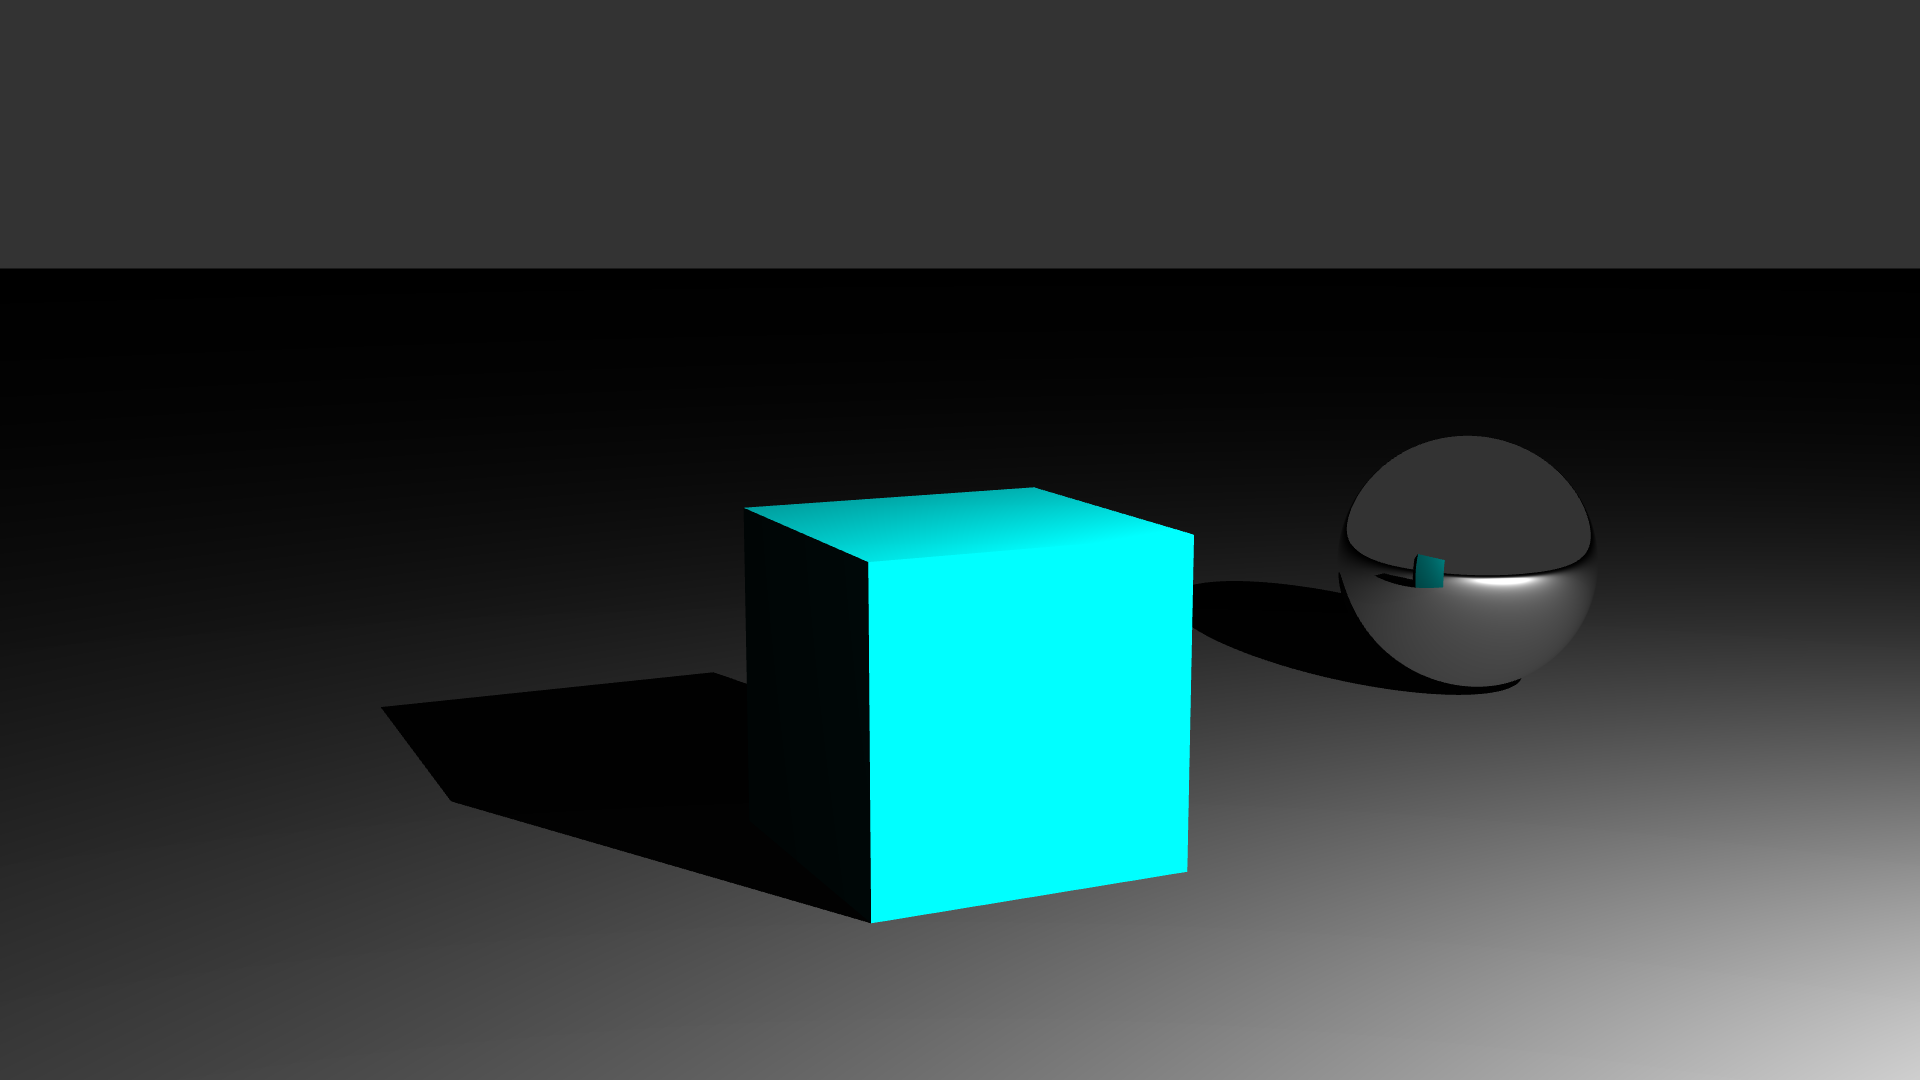
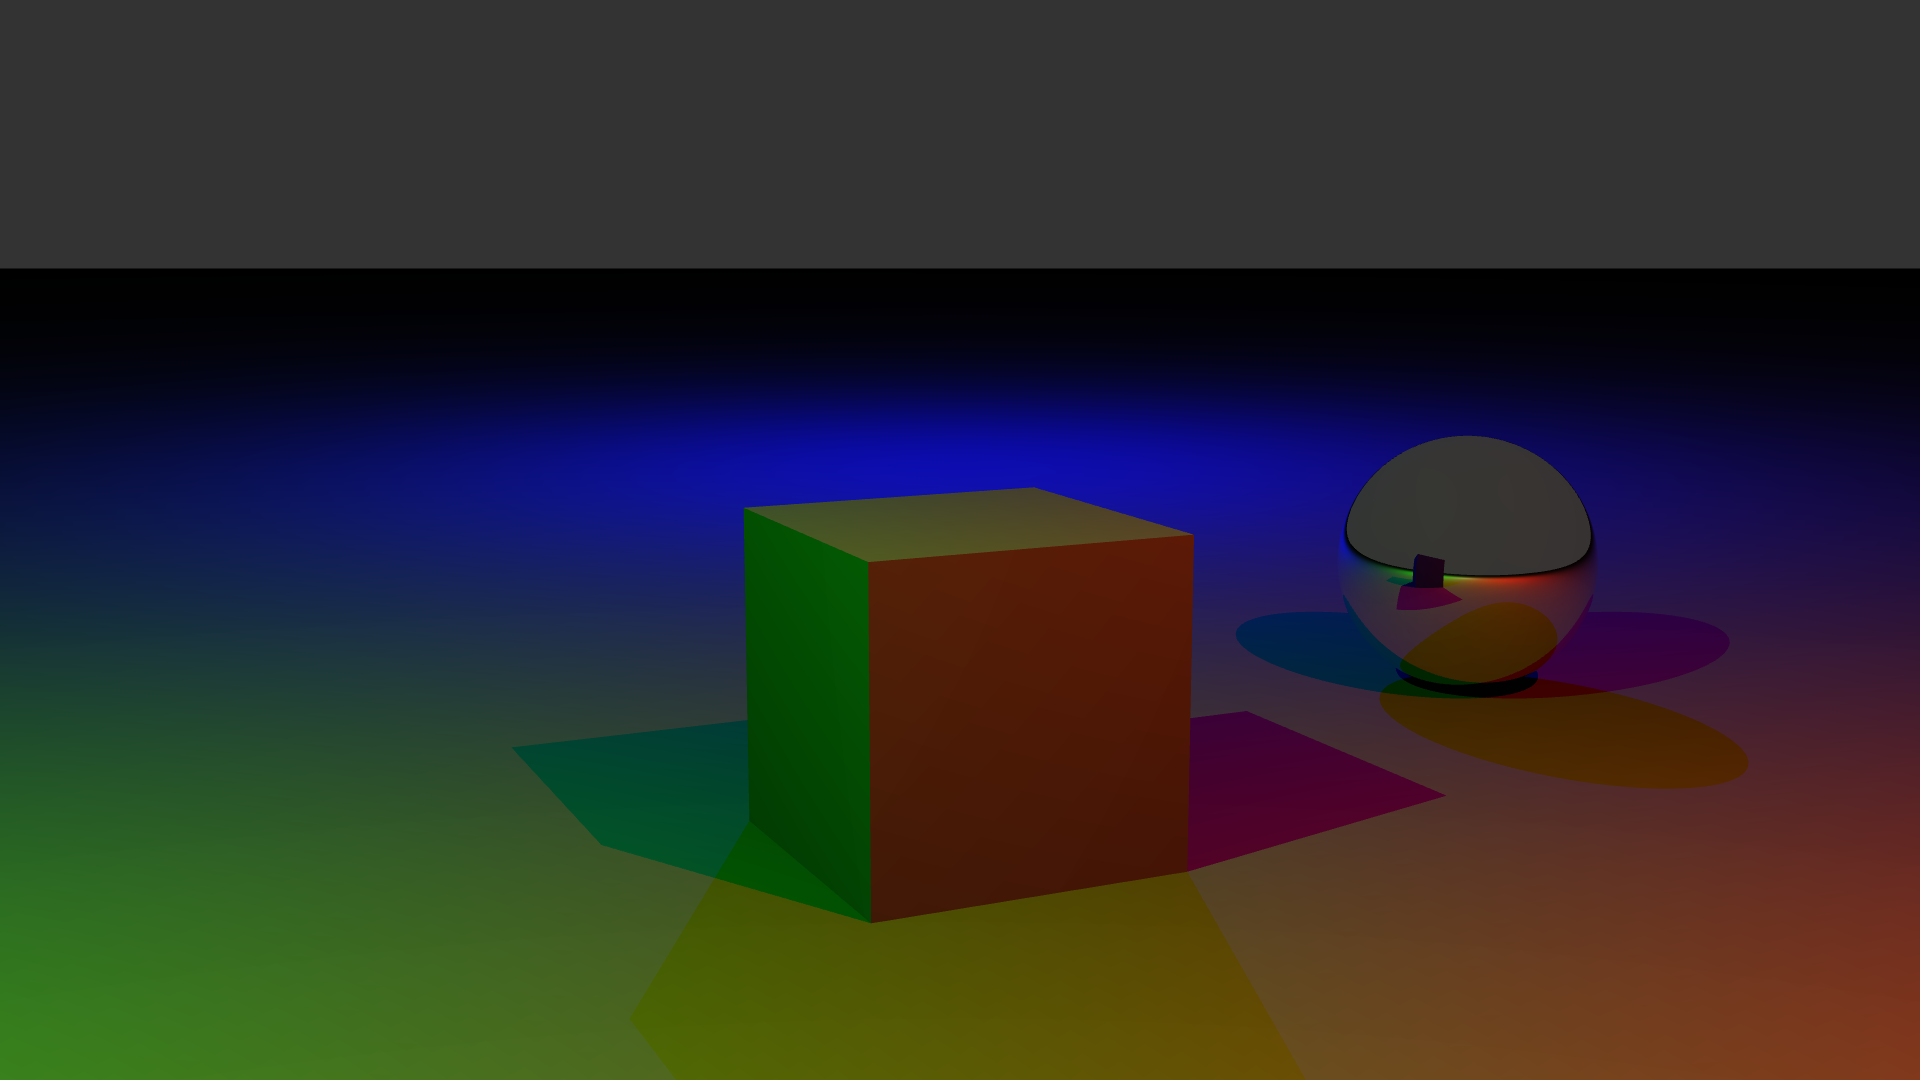
Rework of object colouring
Lights can now be coloured
Objects now only reflect light of the same color

diff --git a/src/tracer/Main.java b/src/tracer/Main.java
@@ -27,7 +27,9 @@ public class Main {
 				
 		Raytracer R = new Raytracer(CAMERA_ORIGIN, CAMERA_PITCH, CAMERA_YAW, CAMERA_ROLL, XRES, YRES, FOV, AA, THREADS, TILE_SIZE, BIAS);
 		
-		R.addLight(new tracer.light.PointLight(new Vector(2d,2d,2d), 1360d));
+		R.addLight(new tracer.light.PointLight(new Vector(2d,3d,2d), 1360d,Color.RED));
+		R.addLight(new tracer.light.PointLight(new Vector(-2d,3d,2d), 1360d,Color.GREEN));
+		R.addLight(new tracer.light.PointLight(new Vector(0d,3d,-4d), 1360d,Color.BLUE));
 		R.addLight(new tracer.light.PointLight(CAMERA_ORIGIN, 50d));
 		
 		AffineMatrix O = AffineMatrix.buildMatrix(0d, 0d, 0d, new Vector(0d,0d,0d));
@@ -38,16 +40,16 @@ public class Main {
 		Material CYAN = new Material(new DiffuseShader(Color.CYAN,0.5d,R));
 		Material RED = new Material(new DiffuseShader(Color.RED,0.5d,R));
 		
-		Material REFLECT = new Material(new ReflectionShader(Color.BLACK, 1d, R));
+		Material REFLECT = new Material(new ReflectionShader(Color.WHITE, 0.99d, R));
 				
 		R.addShape(new Face(WHITE, O, new Vector(20d,0d,20d), new Vector(20d,0d,-20d), new Vector(-20d,0d,-20d), new Vector(-20d,0d,20d)));
 		
-		R.addShape(new Face(CYAN, M, new Vector(0.25d,0.25d,0.25d), new Vector(-0.25d,0.25d,0.25d), new Vector(-0.25d,-0.25d,0.25d), new Vector(0.25d,-0.25d,0.25d)));
-		R.addShape(new Face(CYAN, M, new Vector(0.25d,0.25d,-0.25d), new Vector(0.25d,-0.25d,-0.25d), new Vector(-0.25d,-0.25d,-0.25d), new Vector(-0.25d,0.25d,-0.25d)));
-		R.addShape(new Face(CYAN, M, new Vector(0.25d,0.25d,0.25d), new Vector(0.25d,-0.25d,0.25d), new Vector(0.25d,-0.25d,-0.25d), new Vector(0.25d,0.25d,-0.25d)));
-		R.addShape(new Face(CYAN, M, new Vector(0.25d,0.25d,0.25d), new Vector(0.25d,0.25d,-0.25d), new Vector(-0.25d,0.25d,-0.25d), new Vector(-0.25d,0.25d,0.25d)));
-		R.addShape(new Face(CYAN, M, new Vector(-0.25d,0.25d,0.25d), new Vector(-0.25d,0.25d,-0.25d), new Vector(-0.25d,-0.25d,-0.25d), new Vector(-0.25d,-0.25d,0.25d)));
-		R.addShape(new Face(CYAN, M, new Vector(0.25d,-0.25d,0.25d), new Vector(-0.25d,-0.25d,0.25d), new Vector(-0.25d,-0.25d,-0.25d), new Vector(0.25d,-0.25d,-0.25d)));
+		R.addShape(new Face(WHITE, M, new Vector(0.25d,0.25d,0.25d), new Vector(-0.25d,0.25d,0.25d), new Vector(-0.25d,-0.25d,0.25d), new Vector(0.25d,-0.25d,0.25d)));
+		R.addShape(new Face(WHITE, M, new Vector(0.25d,0.25d,-0.25d), new Vector(0.25d,-0.25d,-0.25d), new Vector(-0.25d,-0.25d,-0.25d), new Vector(-0.25d,0.25d,-0.25d)));
+		R.addShape(new Face(WHITE, M, new Vector(0.25d,0.25d,0.25d), new Vector(0.25d,-0.25d,0.25d), new Vector(0.25d,-0.25d,-0.25d), new Vector(0.25d,0.25d,-0.25d)));
+		R.addShape(new Face(WHITE, M, new Vector(0.25d,0.25d,0.25d), new Vector(0.25d,0.25d,-0.25d), new Vector(-0.25d,0.25d,-0.25d), new Vector(-0.25d,0.25d,0.25d)));
+		R.addShape(new Face(WHITE, M, new Vector(-0.25d,0.25d,0.25d), new Vector(-0.25d,0.25d,-0.25d), new Vector(-0.25d,-0.25d,-0.25d), new Vector(-0.25d,-0.25d,0.25d)));
+		R.addShape(new Face(WHITE, M, new Vector(0.25d,-0.25d,0.25d), new Vector(-0.25d,-0.25d,0.25d), new Vector(-0.25d,-0.25d,-0.25d), new Vector(0.25d,-0.25d,-0.25d)));
 				
 		R.addShape(new Sphere(0.25, S, REFLECT));
 		

diff --git a/src/tracer/light/PointLight.java b/src/tracer/light/PointLight.java
@@ -1,17 +1,27 @@
 package tracer.light;
 
+import java.awt.Color;
+
 import patchi.math.space.Vector;
 
 public class PointLight extends Light {
-		
+
 	private Vector origin;
-	
+
 	public PointLight(Vector O, double intensity) {
-		
+
 		super(intensity);	
-		
+
 		this.origin = O;
-		
+
+	}
+
+	public PointLight(Vector O, double intensity, Color C) {
+
+		super(intensity,C);	
+
+		this.origin = O;
+
 	}
 
 	@Override
@@ -21,11 +31,11 @@ public class PointLight extends Light {
 
 	@Override
 	public double getIntensity(Vector P) {
-		
+
 		Vector V = new Vector(P,origin);
 		double rsquare = V.dot(V);
 		return super.intensity / (4d * Math.PI * rsquare);
-		
+
 	}
 
 	@Override
@@ -33,5 +43,5 @@ public class PointLight extends Light {
 		Vector V = new Vector(P, origin);
 		return V.dot(V);
 	}
-	
+
 }

diff --git a/src/tracer/light/Light.java b/src/tracer/light/Light.java
@@ -1,14 +1,22 @@
 package tracer.light;
 
+import java.awt.Color;
+
 import patchi.math.space.Vector;
 
 public abstract class Light {
 
 	protected double intensity;
+	protected Color color;
 	
 	public Light(double intensity) {
+		this(intensity, Color.WHITE);
+	}
+	
+	public Light(double intensity, Color color) {
 		
 		this.intensity = intensity;
+		this.color = color;
 		
 	}
 	
@@ -17,5 +25,9 @@ public abstract class Light {
 	public abstract Vector getDirection(Vector P);
 
 	public abstract double getDistanceSquare(Vector P);
+	
+	public Color getColor() {
+		return color;
+	}
 	
 }

diff --git a/src/tracer/shader/ReflectionShader.java b/src/tracer/shader/ReflectionShader.java
@@ -41,7 +41,7 @@ public class ReflectionShader implements Shader {
 
 		Intersect reflection = RAYTRACER.getIntersect(refRay, true);
 
-		C = RAYTRACER.getColor(reflection);
+		C = PatchiColor.multiply(RAYTRACER.getColor(reflection),COLOR);
 
 		if(REFLECTIVITY != 1f) {
 			Color Dif = new DiffuseShader(COLOR, 1d - (double)REFLECTIVITY, RAYTRACER).shade(I);

diff --git a/src/tracer/shader/DiffuseShader.java b/src/tracer/shader/DiffuseShader.java
@@ -52,7 +52,8 @@ public class DiffuseShader implements Shader {
 				colors.add(Color.BLACK);
 			} else {	
 				double m = L.getIntensity(P) * ALBEDO * dot;
-				colors.add(PatchiColor.scalarMultiply(COLOR, (float) m));	
+				Color C = PatchiColor.scalarMultiply(COLOR, (float) m);
+				colors.add(PatchiColor.multiply(C, L.getColor()));	
 			}		
 		}
 		
